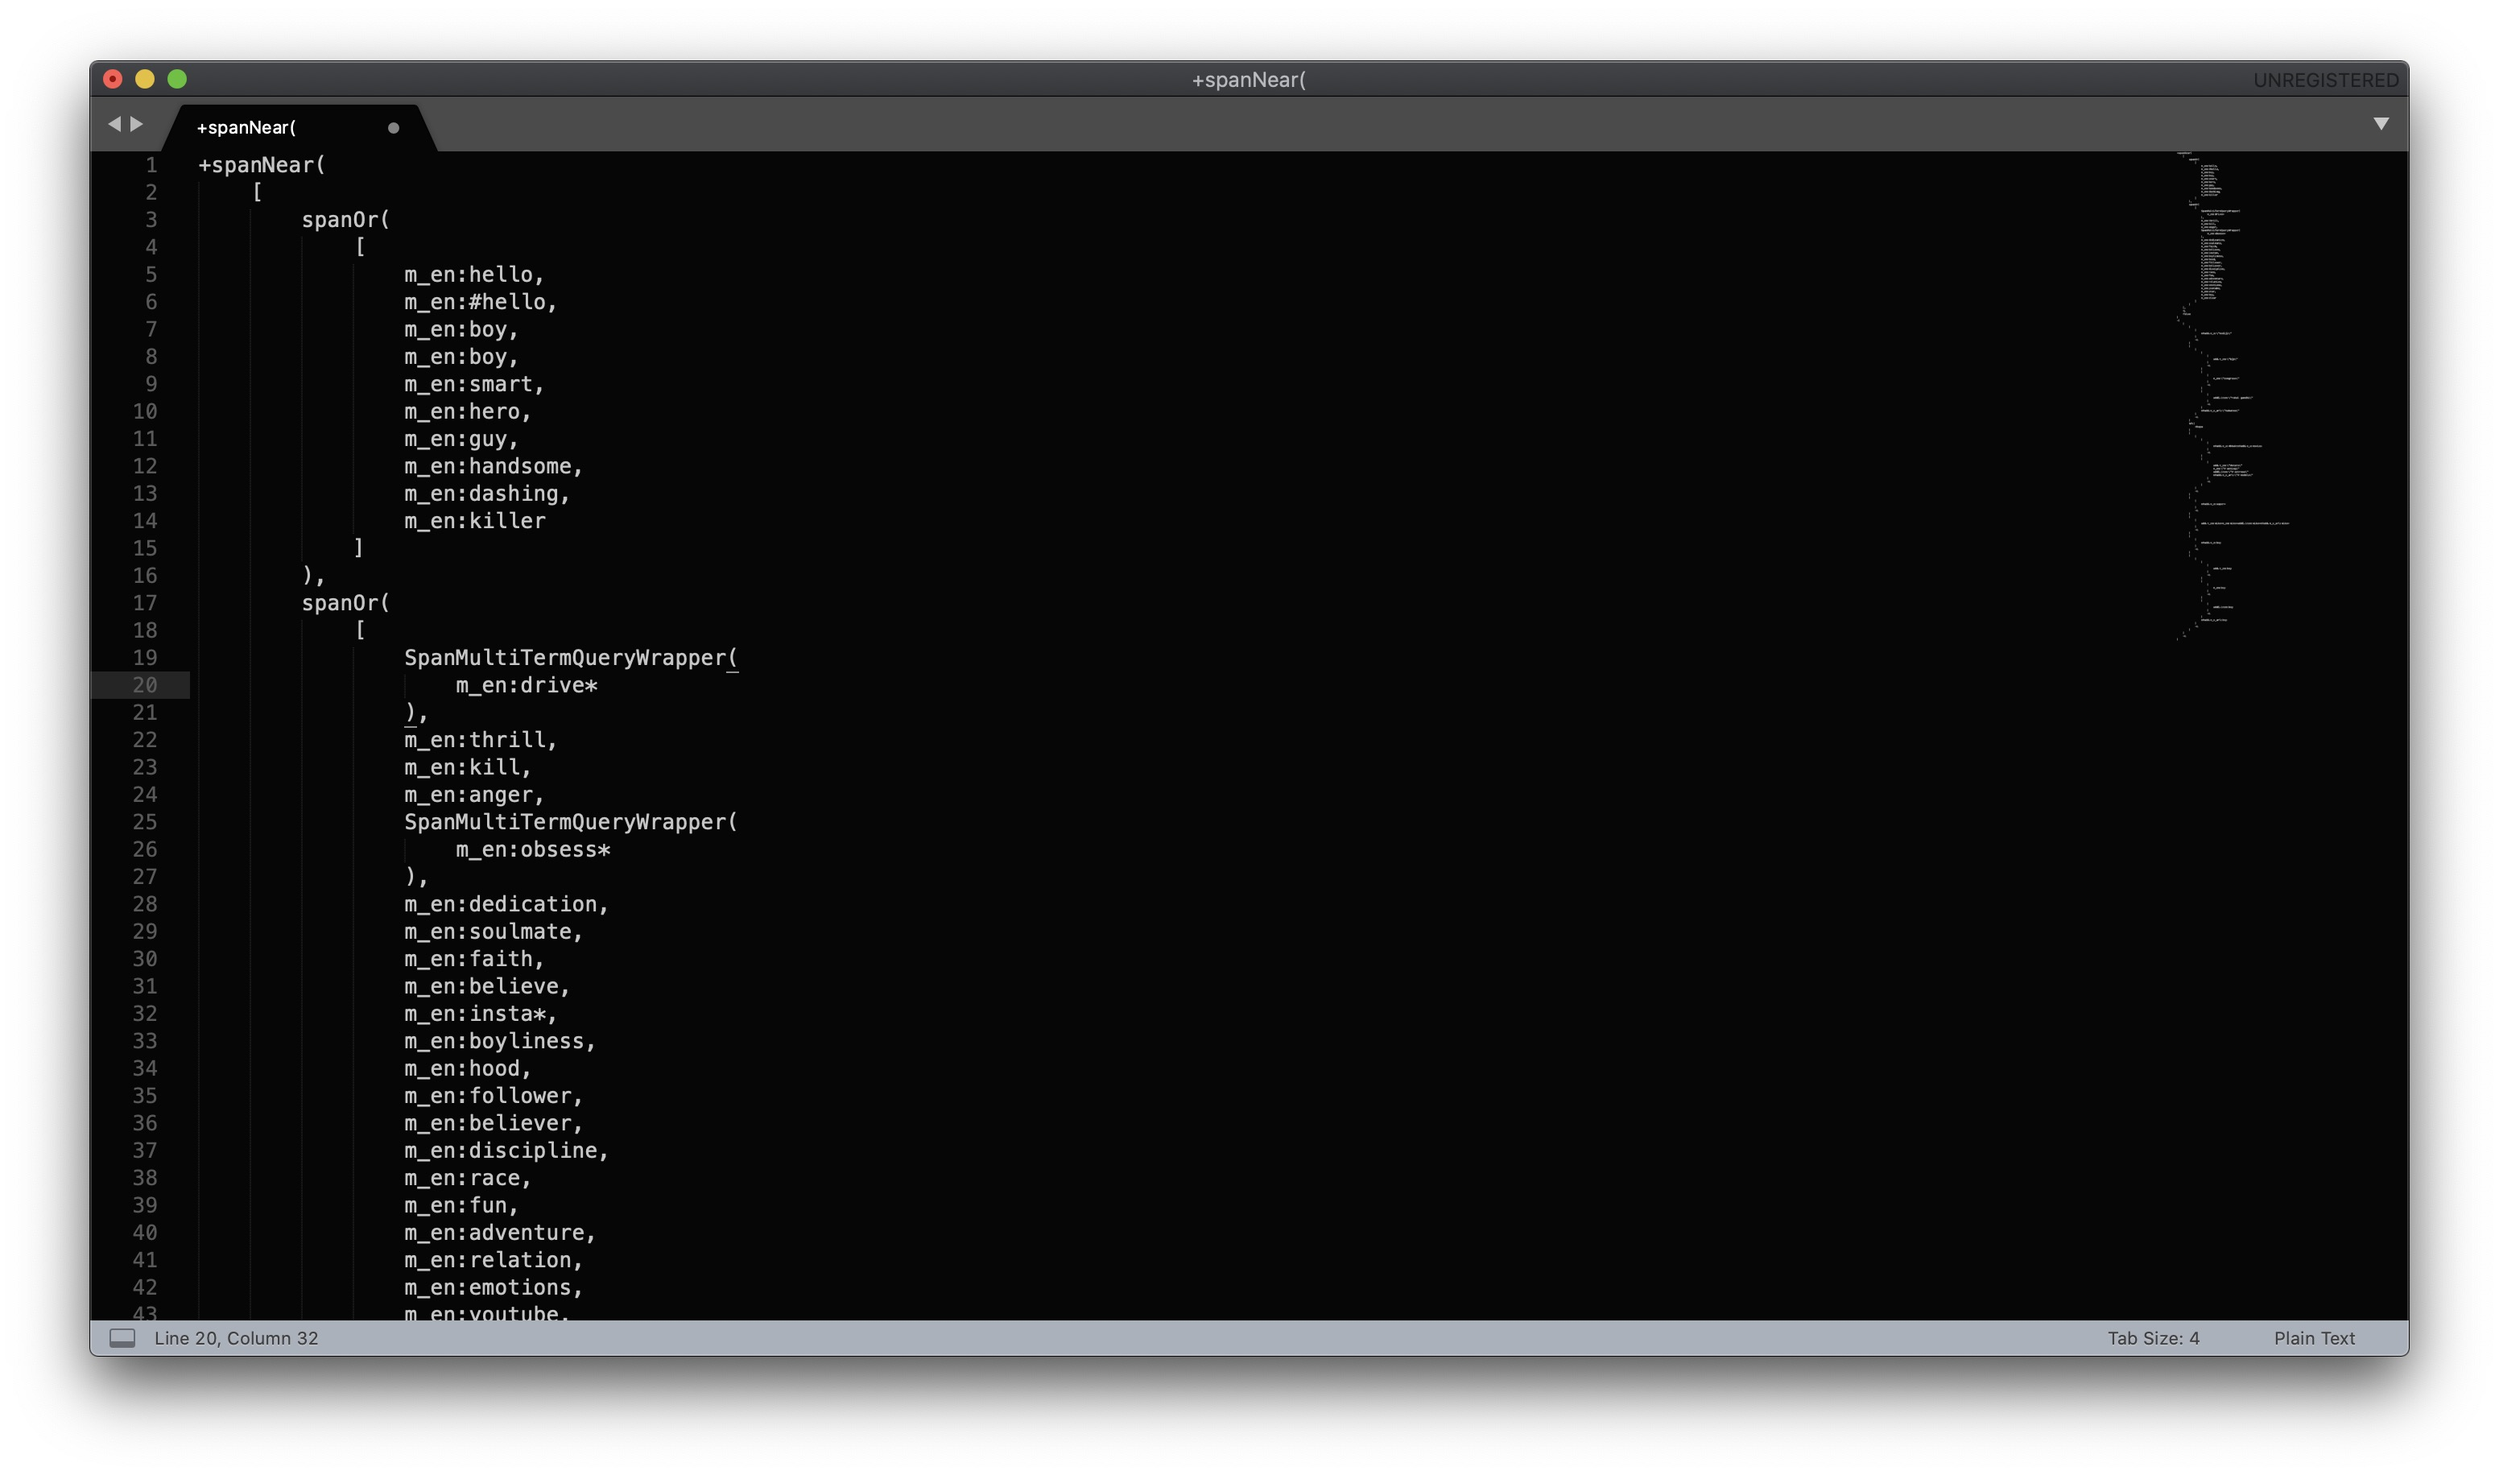
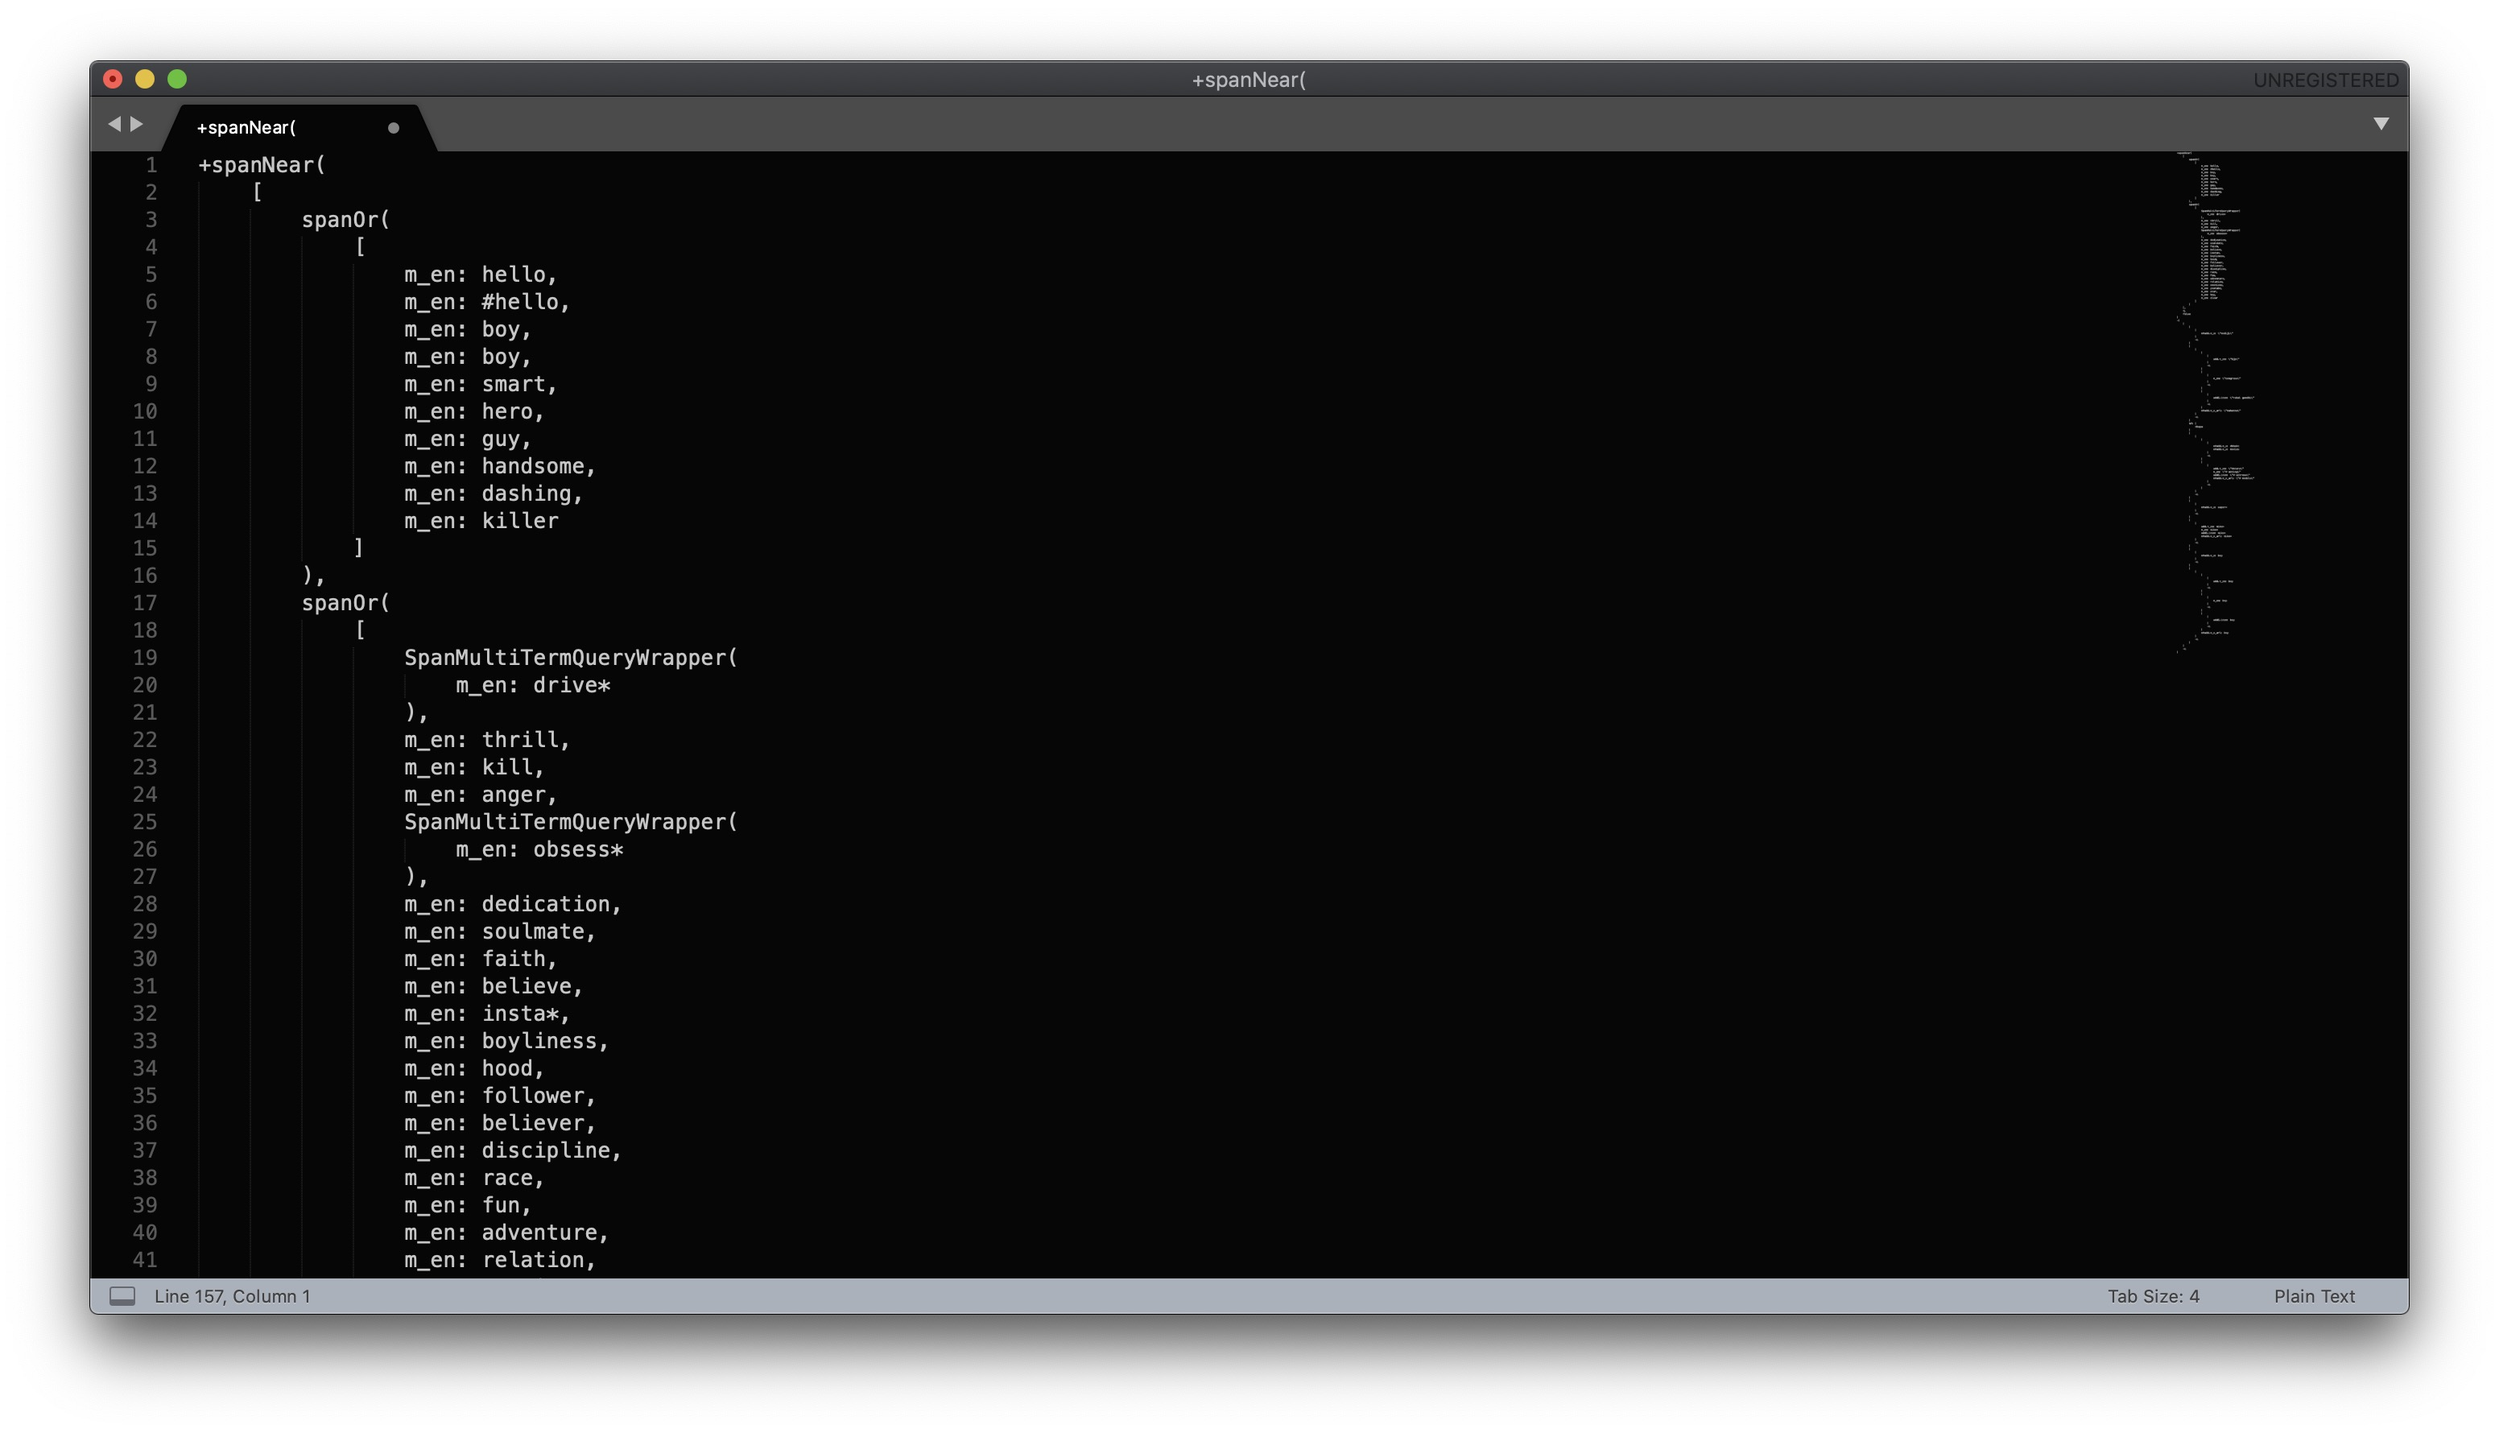
Minor Update

diff --git a/Lucene Query Formatter.py b/Lucene Query Formatter.py
@@ -1,113 +1,34 @@
 import sublime
 import sublime_plugin
-
+from . import algorithm as ALGO
 
 class LuceneQueryFormatterCommand(sublime_plugin.TextCommand):
-	def run(self, edit):
-		try:
-			for region in self.view.sel():
-				selection=None
-				# retrieve selected text and if nothing is selected, everything is retrieved
-				if region.empty():
-					selection=sublime.Region(0, self.view.size())
-				else:
-					selection=region
-				s=self.view.substr(selection)
-				if not s:
-					sublime.message_dialog("Please provide some input text")
-				else:
-					print("Indenting Lucene Query...")
-					sublime.status_message("Indenting Lucene Query...")
-					#format query
-					result=format(s)
-					if result!=s:
-						self.view.replace(edit, selection, result)
-					print("Indented successfully")
-					sublime.status_message("Indented successfully")	
-		except Exception as error:
-			sublime.message_dialog("Some internal error occured.\nQuery could not be processed. Please review the console for error.")
-			print("Error occurred:")
-			print(error)
+    def run(self, edit):
+        try:
+            for region in self.view.sel():
+                selection = None
+                # retrieve selected text and if nothing is selected, everything is retrieved
+                if region.empty():
+                    selection = sublime.Region(0, self.view.size())
+                else:
+                    selection = region
 
-#this method is used to format the query
-def format(query):
-	#remove white spaces
-	query=removeSpaces(query)
-	#remove "" around the query
-	if query[0]=='\"' and query[-1]=='\"' and len(query)>=2:
-		query=query[1:-1]
-	result=""
-	countTabs=0
-	#inPhrase indicates whether we are traversing the quoted text
-	inPhrase=False
-	for idx in range(len(query)):
-		if query[idx]=='\"':
-			#toggle inPhrase when ' " ' is encountered
-			inPhrase=1^inPhrase
-			#jump onto the next line after completing each phrase(quoted text)
-			result=result+query[idx]
-			if inPhrase==False:
-				result=result+"\n"
-				result=result+("\t"*countTabs)
-			continue
-		#quoted text should be printed as it is
-		if inPhrase==True:
-			result=result+query[idx]
-			#in case quoted text contains newline character, cursor should move onto the next line but should not change the current block
-			if query[idx]=='\n':
-				result=result+("\t"*countTabs)
-			continue
-		#remove exisiting spacing characters from the string
-		if query[idx]==' ' or query[idx]=='\t' or query[idx]=='\n' or query[idx]=='\r':
-			continue
-		#handle ',' separately
-		if query[idx]==',':
-			#incase cursor is at the starting of a new line, add tab spacing to get into the current block
-			if result[-1]=='\n':
-				result=result+("\t"*countTabs)
-			#append ','
-			result=result+query[idx]
-			#jump onto new line and respective indent block after each ','
-			result=result+"\n"
-			result=result+("\t"*countTabs)
-		#start a new block whenever an opening paranthesis is encountered
-		elif query[idx]=='(' or query[idx]=='[' or query[idx]=='{':
-			result=result+query[idx]
-			#jump onto the next line and add a new block by increasing number of tabs
-			result=result+"\n"
-			countTabs=countTabs+1
-			result=result+("\t"*countTabs)
-		#end the current block whenever a closing paranthesis is encountered
-		elif query[idx]==')' or query[idx]==']' or query[idx]=='}':
-			#if the cursor has already moved onto the next line, remove '\t' from end as cursor needs to go back to the previous block
-			if result[-1]=='\t':
-				result=result[:-1]
-			#otherwise, move onto the next line, get onto the previous block
-			else:
-				result=result+"\n"
-				result=result+("\t"*(countTabs-1))
-			#decrement tabCount due to closing of the block
-			countTabs=countTabs-1
-			result=result+query[idx]
-			#incase there is a ',' after closing a block, it has to be printed just after closing so continue without moving onto the next line
-			if idx<(len(query)-1) and query[idx+1]==',':
-				continue
-			#otherwise, move onto the next line, jump onto the current block
-			result=result+"\n"
-			result=result+("\t"*countTabs)
-		#in any other cases, just print the character
-		else:
-			result=result+query[idx]	
-	return result
-
-#this function is used to remove blanks around the query
-def removeSpaces(query):
-	l=0
-	r=len(query)-1
-	while l<len(query) and (query[l]==' ' or query[l]=='\r' or query[l]=='\t' or query[l]=='\n'):
-		l=l+1;
-	while r>=0 and (query[r]==' ' or query[r]=='\r' or query[r]=='\t' or query[r]=='\n'):
-		r=r-1
-	if l>r:
-		return ""
-	return query[l:r+1]
+                text = self.view.substr(selection).strip()
+                
+                if not text:
+                    sublime.message_dialog("Please provide some input text")
+                else:
+                    print("Indenting Lucene Query...")
+                    sublime.status_message("Indenting Lucene Query...")
+                    # format query
+                    result = ALGO.format_lucene_query(text)
+                    # replace input text with result
+                    if result != text:
+                        self.view.replace(edit, selection, result)
+                    print("Indented successfully")
+                    sublime.status_message("Indented successfully")
+        except Exception as error:
+            sublime.message_dialog(
+                "Some internal error occured.\nQuery could not be processed. Please review the console for error.")
+            print("Error occurred:")
+            print(error)

diff --git a/algorithm.py b/algorithm.py
@@ -1,0 +1,88 @@
+from . import utils as UTILS
+
+# this method is used to format the query
+def format_lucene_query(query):
+    result = ""
+    tab_count = 0
+    # indicates whether the entire input is quoted
+    is_quoted = False
+    # indicates whether we are traversing a quoted segment
+    in_phrase = False
+    # indicates whether the next character has to be escaped or not
+    escape_on = False
+
+    # unquote entire query
+    if query[0] == '\"' and query[-1] == '\"' and len(query) >= 2:
+        is_quoted = True
+        query = query[1:-1]
+        query = UTILS.unescape_manual(query)
+
+    query = UTILS.remove_multiple_spaces(query, is_quoted)
+
+    for idx in range(len(query)):
+        if escape_on:
+            escape_on = False
+            continue
+
+        if query[idx] == '\"':
+            # toggle in_phrase when ' " ' is encountered
+            in_phrase = 1 ^ in_phrase
+            result += query[idx]
+
+            # jump onto the next line after completing each quoted text segment
+            if not in_phrase:
+                # in case next character is neither comma(,) nor colon(:),
+                # move onto the next line
+                if idx >= (len(query)-1) or not UTILS.is_comma_or_colon(query[idx+1]):
+                    result += UTILS.add_newline_tabs(tab_count)
+            continue
+
+        # quoted text should be printed as it is
+        if in_phrase:
+            result += query[idx]
+            # in case quoted text contains newline character, pointer should
+            # move onto the next line but should not change the current block
+            if query[idx] == UTILS.NEW_LINE:
+                result += UTILS.add_newline_tabs(tab_count, False)
+            # escaping character
+            elif query[idx] == '\\' and is_quoted and idx < (len(query)-1):
+                result += query[idx+1]
+                escape_on = True
+            continue
+
+        # remove exisiting spacing characters in the string
+        if UTILS.is_spacing_character(query[idx]):
+            if result[-1] == UTILS.TAB or result[-1] == UTILS.NEW_LINE:
+                continue
+            else:
+                result += UTILS.add_newline_tabs(tab_count)
+            continue
+
+        # add space after colon(:)
+        if query[idx] == ':':
+            result += ": "
+            continue
+
+        if query[idx] == ',' or UTILS.is_opening(query[idx]):
+            # add a new block when opening bracket is encountered
+            tab_count += int(UTILS.is_opening(query[idx]))
+            result += (query[idx] + UTILS.add_newline_tabs(tab_count))
+            continue
+
+        # end the current block whenever a closing bracket is encountered
+        if UTILS.is_closing(query[idx]):
+            # if the cursor has already moved onto the next line,
+            # remove TAB from end as cursor needs to go back to the previous block
+            # otherwise, move onto the next line, get onto the previous block
+            result = result[:-1] if len(result) > 1 and result[-1] == UTILS.TAB else "{}{}".format(
+                result, UTILS.add_newline_tabs(tab_count - 1))
+            tab_count = max(tab_count - 1, 0)
+            result += query[idx]
+
+            if idx >= (len(query)-1) or not UTILS.is_comma_or_colon(query[idx+1]):
+                result += UTILS.add_newline_tabs(tab_count)
+            continue
+
+        # in any other case, just print the character
+        result += query[idx]
+    return result

diff --git a/utils.py b/utils.py
@@ -1,0 +1,67 @@
+NEW_LINE = '\n'
+RETURN = '\r'
+TAB = '\t'
+WHITESPACE = ' '
+
+
+# Flag set to false to not include the newline character
+def add_newline_tabs(tab_count, flag=True):
+    tabs = TAB * max(tab_count, 0)
+    return "\n"+tabs if flag else tabs
+
+
+def unescape_manual(query):
+    return query.replace('\\\\', '\\').replace('\\\"', '\"')
+
+
+def is_opening(bracket):
+    return True if bracket == '(' or bracket == '[' or bracket == '{' else False
+
+
+def is_closing(bracket):
+    return True if bracket == ')' or bracket == ']' or bracket == '}' else False
+
+
+def is_spacing_character(ch):
+    return True if ch == WHITESPACE or ch == TAB or ch == NEW_LINE or ch == RETURN else False
+
+
+def is_comma_or_colon(ch):
+    return True if ch == ',' or ch == ':' else False
+
+
+def remove_multiple_spaces(query, is_quoted):
+    query_new = ""
+    in_phrase = False
+    idx = 0
+    while idx < len(query):
+        query_new += query[idx]
+        if query[idx] == '\"':
+            # toggle in_phrase whenever ' " ' is encountered
+            in_phrase = 1 ^ in_phrase
+            idx += 1
+            continue
+
+        if in_phrase:
+            # escaping character
+            if query[idx] == '\\' and is_quoted and idx < (len(query)-1):
+                query_new += query[idx+1]
+                idx += 1
+            idx += 1
+            continue
+
+        # 'query_new=query_new[:-1]' is used to remove complete
+        # space sequence when found around a comma(,) or colon(:)
+        if is_spacing_character(query[idx]):
+            if idx >= 1 and is_comma_or_colon(query[idx-1]):
+                query_new = query_new[:-1]
+
+            while idx < len(query) and is_spacing_character(query[idx]):
+                idx += 1
+
+            if idx < len(query) and is_comma_or_colon(query[idx]):
+                query_new = query_new[:-1]
+            idx -= 1
+        idx += 1
+
+    return query_new.strip()

diff --git a/README.md b/README.md
@@ -1,7 +1,7 @@
-## Query Formatter README
+# README
 
-## Note:
-** THIS EXTENSION IS HELPFUL FOR DEBUGGING LOGICAL ERRORS ONLY. **
+## NOTE:
+*THIS EXTENSION IS HELPFUL FOR DEBUGGING LOGICAL ERRORS ONLY.*
 
 ## Features
 This extension is made for formatting object strings of Lucene Queries. These object strings are one liner
@@ -10,25 +10,20 @@ to read and debug manually but with this formatter you can prettify your object 
 of queries. This extension can be very handy for engineers working in large organisations with Elastic Search database in JAVA.
 
 ## How to use
-For Mac:  "cmnd+shift+ctrl+i"
-
-For Non-Mac: "win+shift+ctrl+i"
-
-            OR
-
-Open Command Palette , choose "Format Query"
+- For Mac:  "cmnd+shift+ctrl+i"
+- For Non-Mac: "win+shift+ctrl+i"
+####     OR
+- Open Command Palette , choose "Format Query"
 
 ## Requirements
 QUERY MUST NOT CONTAIN ANY VALIDATION ERROR.
 
 ## Example
-
-Original Query: 
+- Original Query: 
 
 ![](https://raw.githubusercontent.com/nishant-ns19/Lucene-Query-Formatter/master/before.jpg)
 
-Indented Query:
+- Indented Query:
 
 ![](https://raw.githubusercontent.com/nishant-ns19/Lucene-Query-Formatter/master/after.jpg)
 
-NISHANT SINGH
